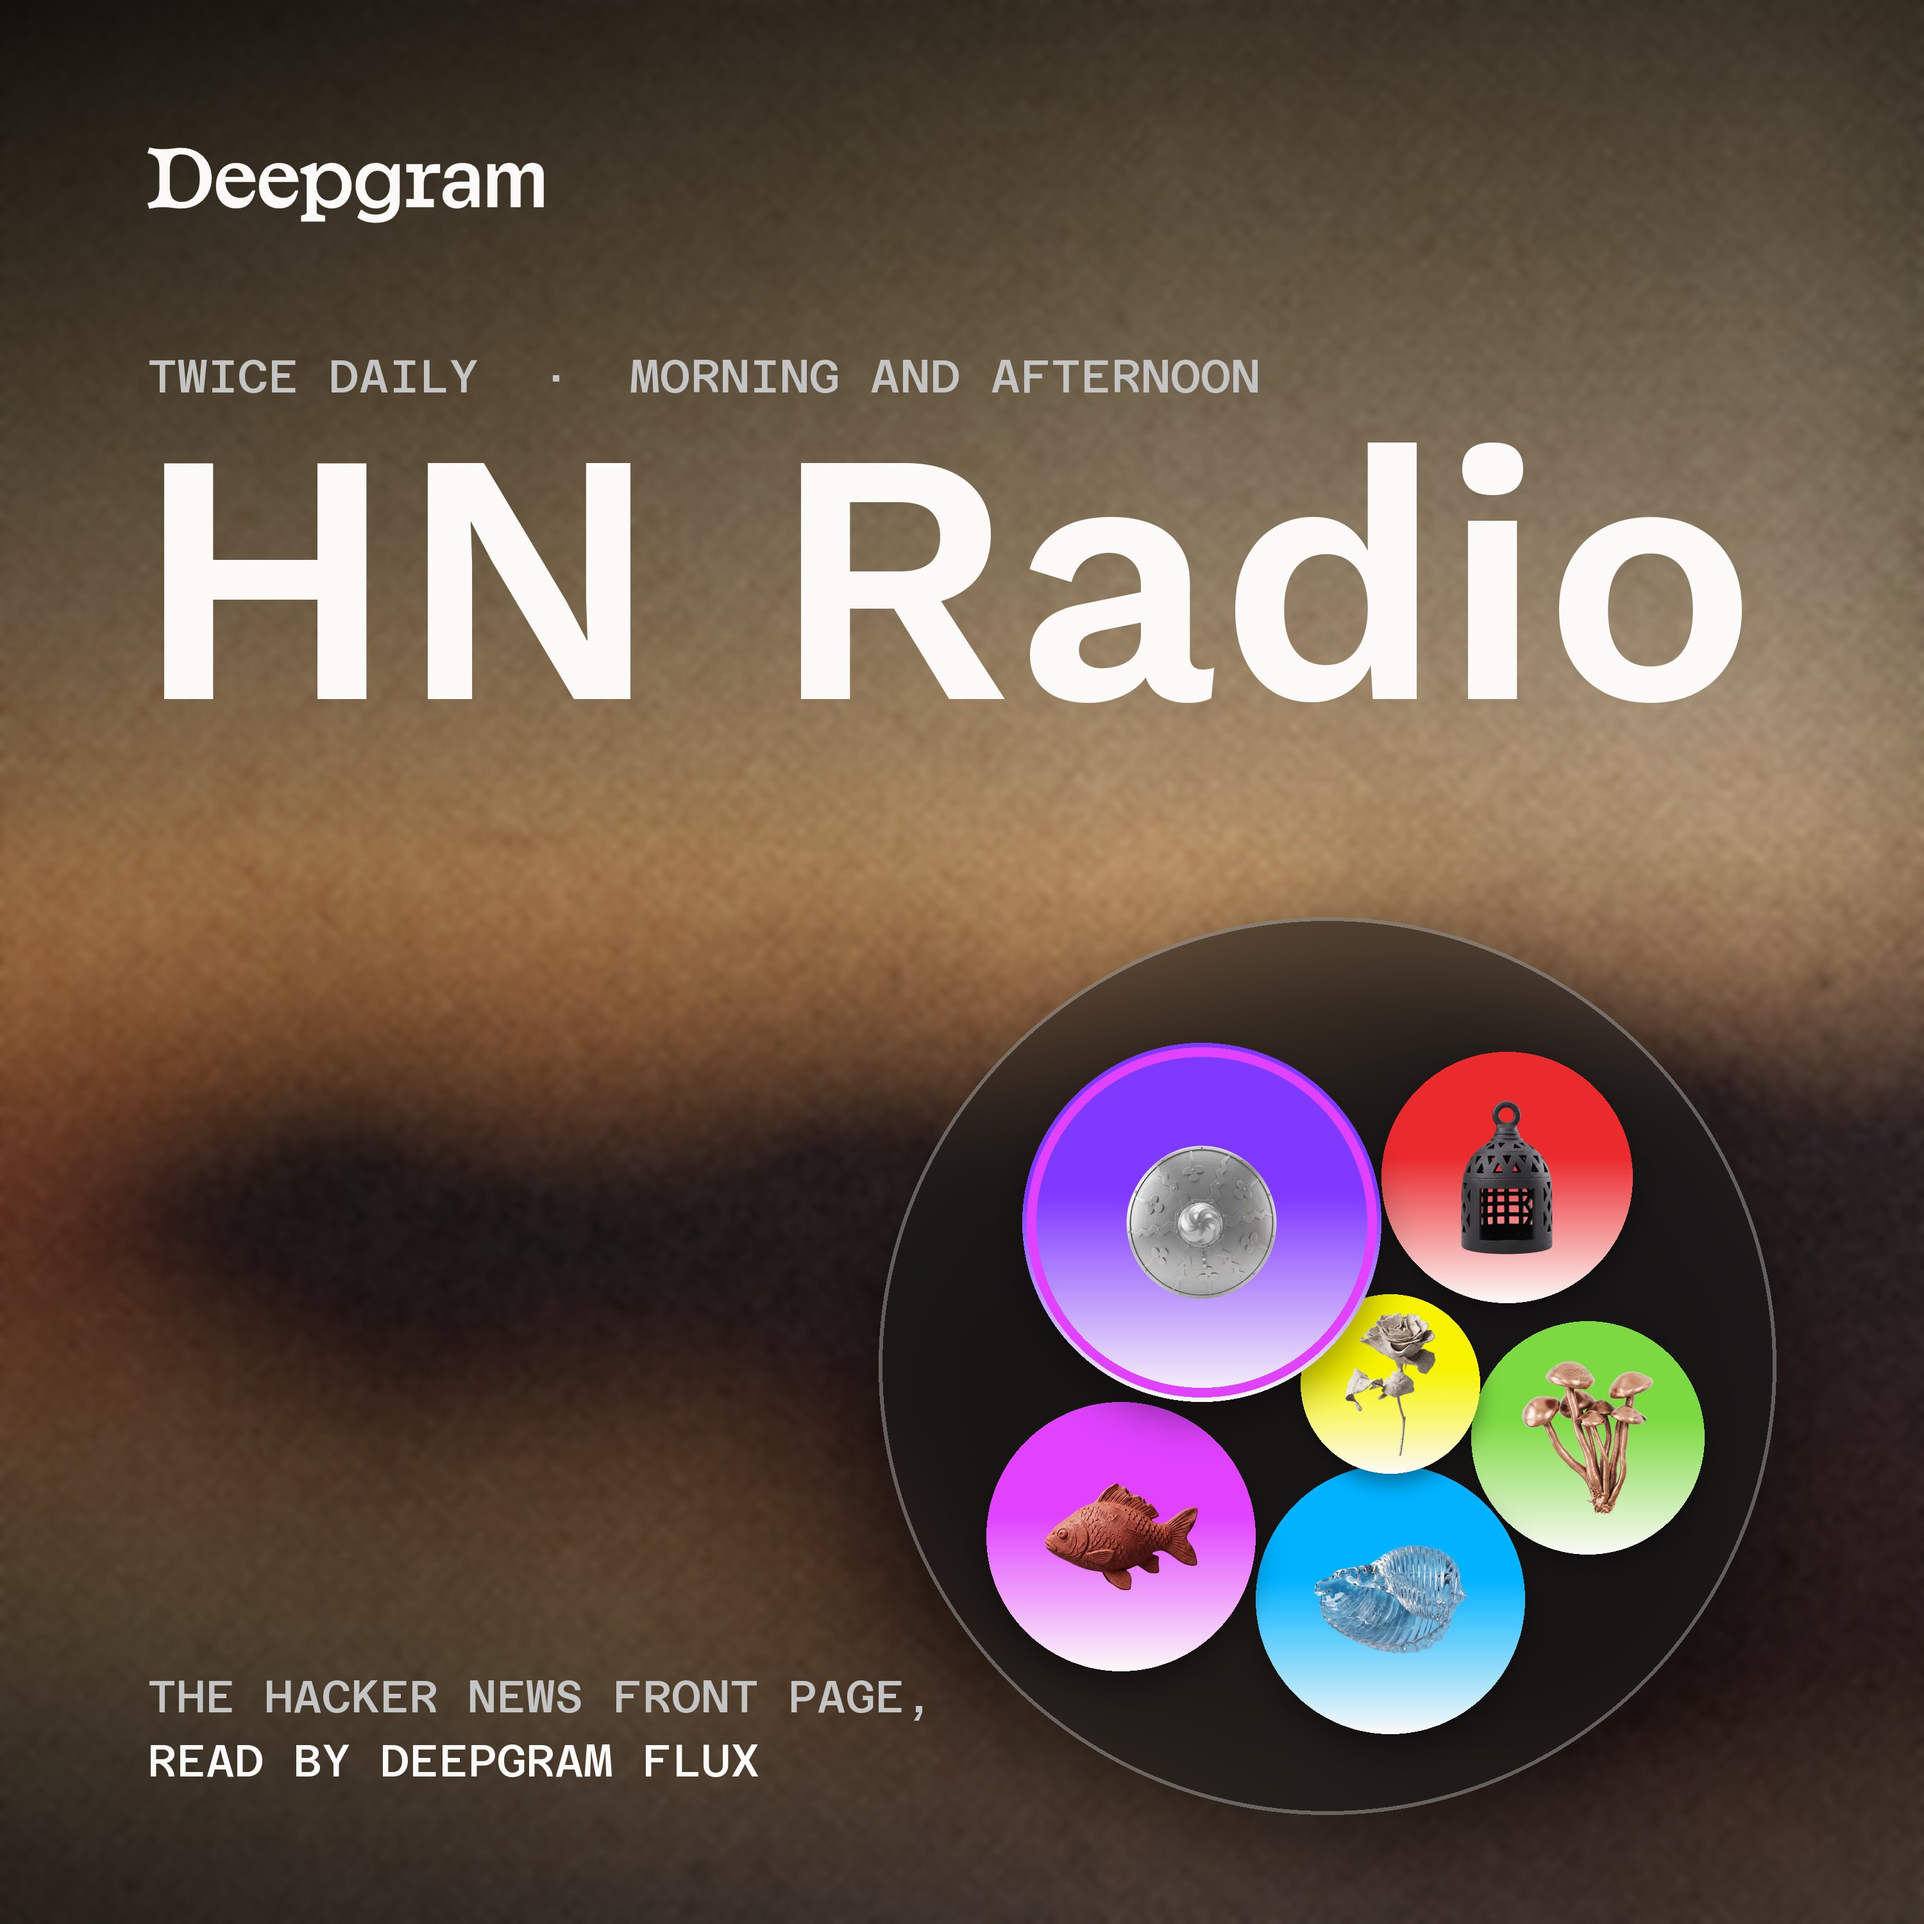
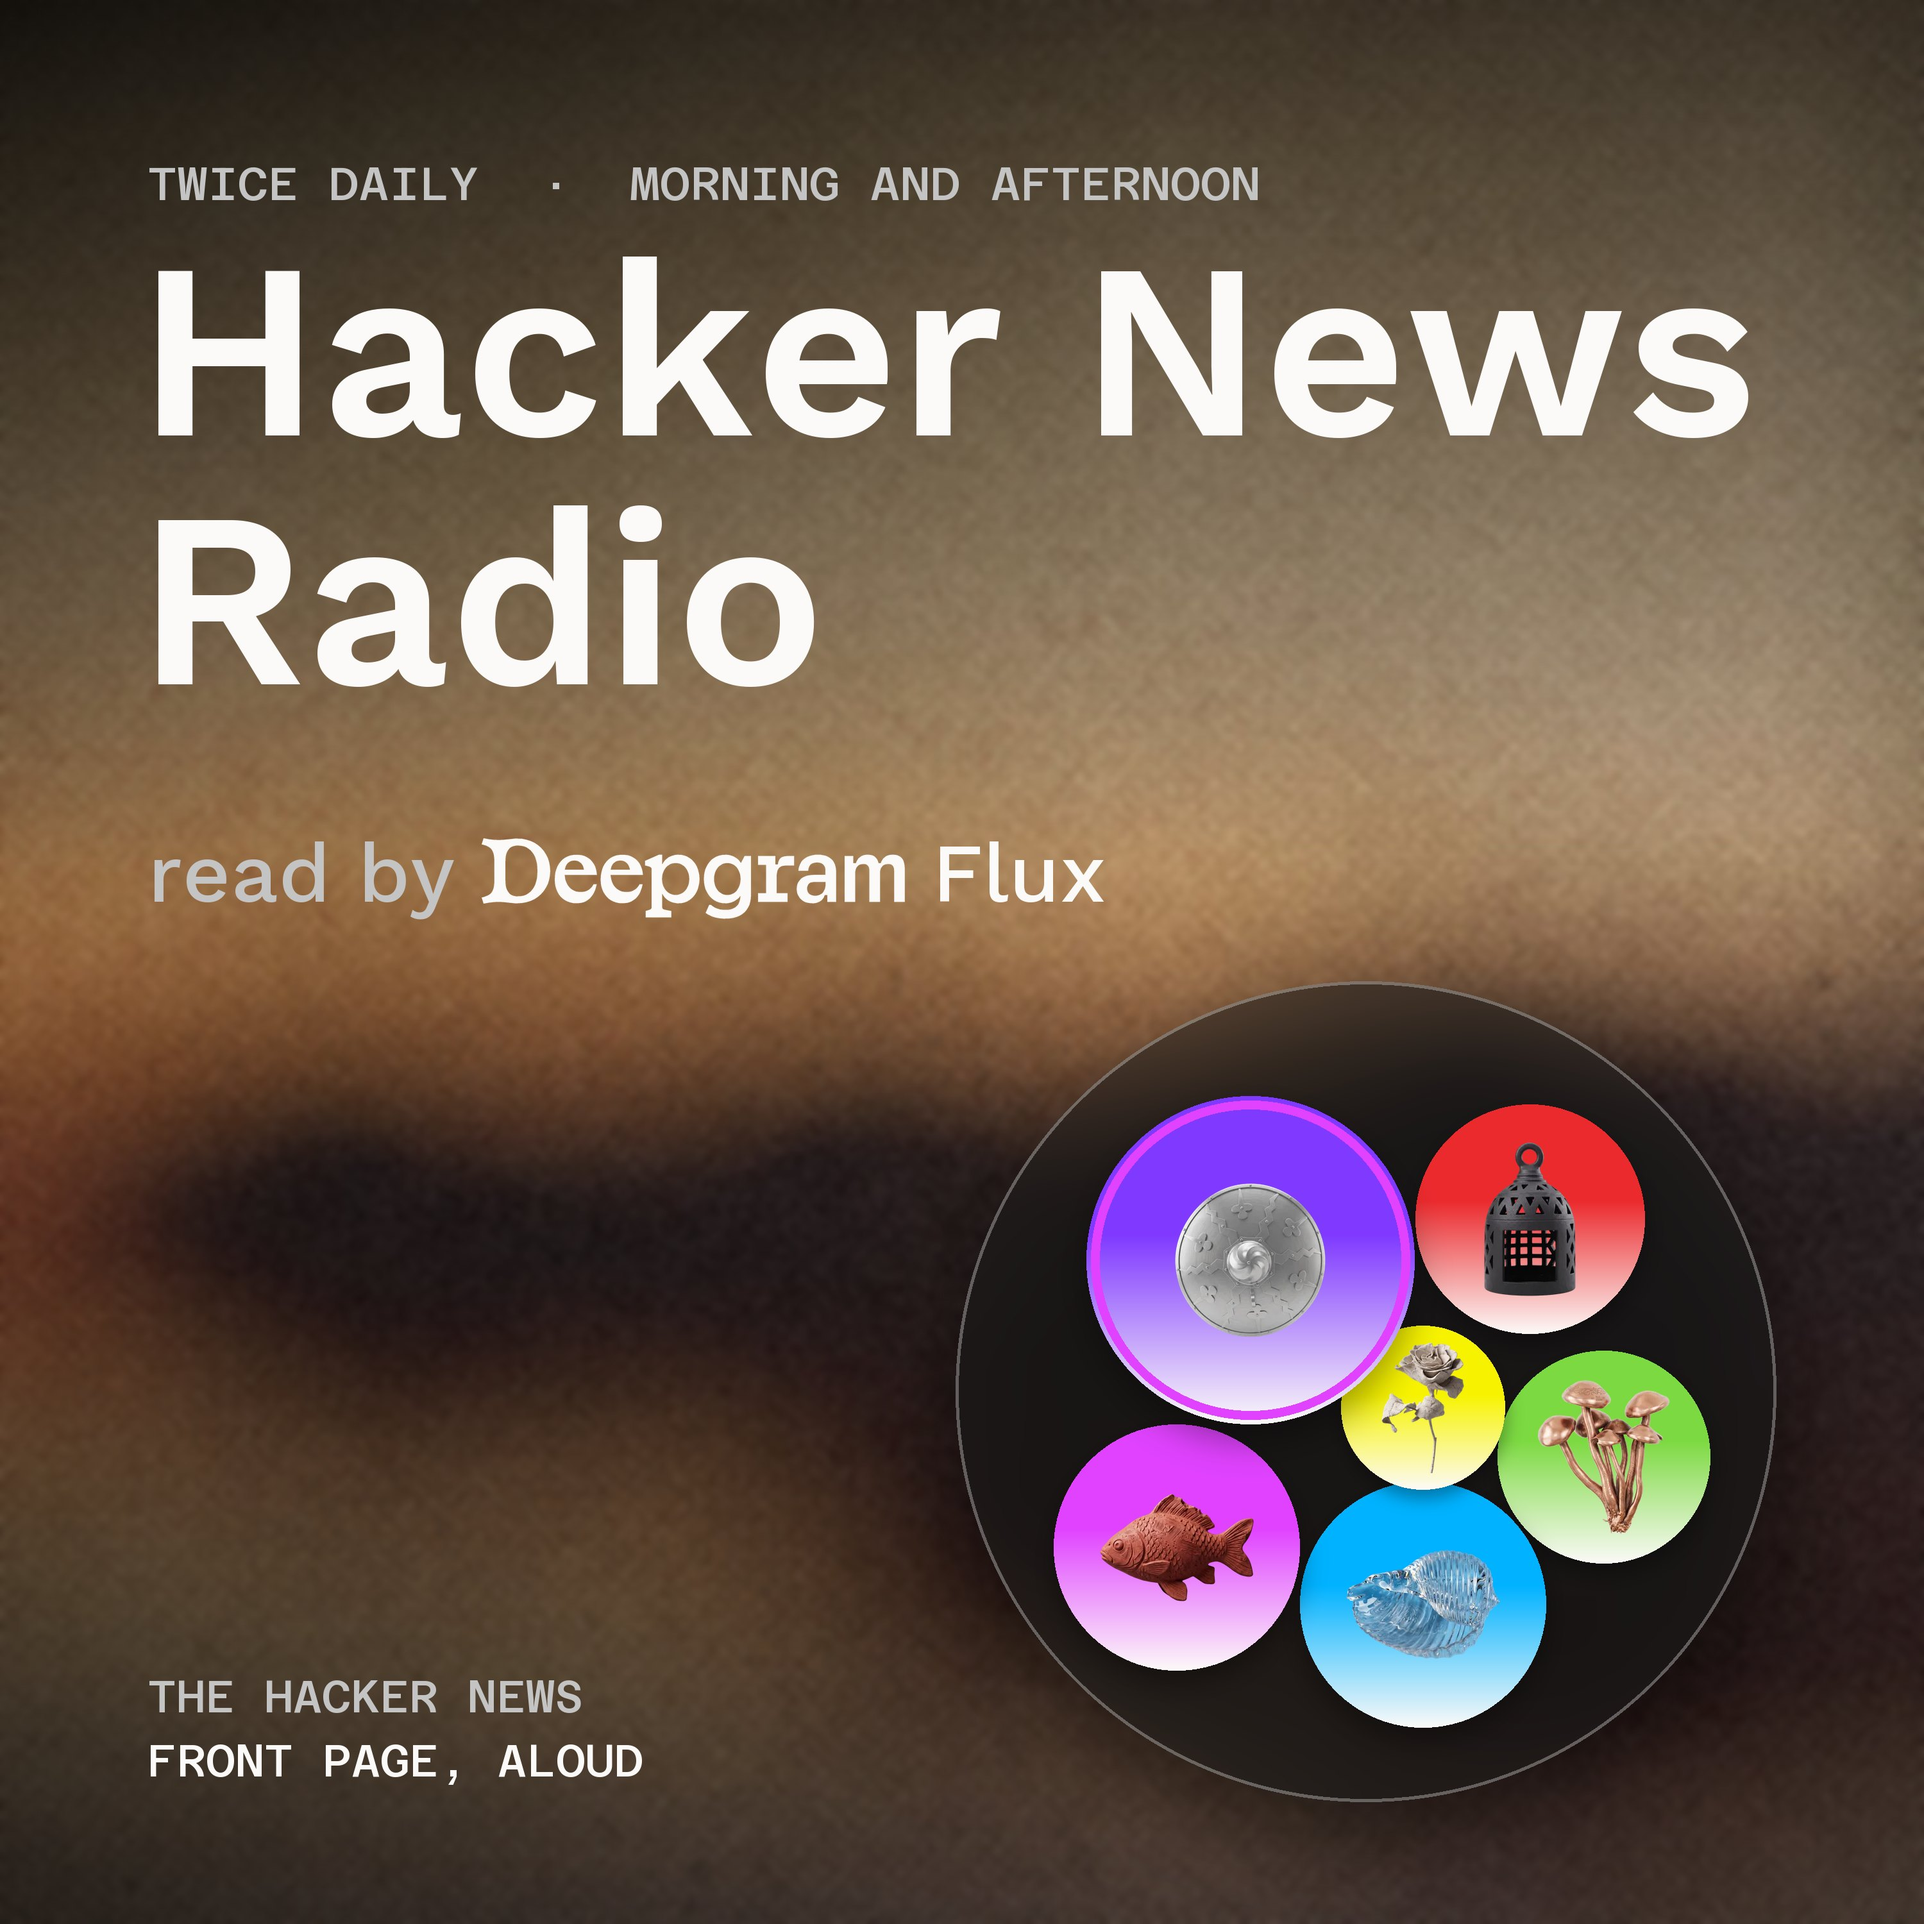
feat(feed): rename the show to Hacker News Radio, read by Deepgram Flux
Claude-Session: https://claude.ai/code/session_01Q2bQEEqMRgxPW6cQZEVLRq

diff --git a/hn_radio/art.py b/hn_radio/art.py
@@ -404,7 +404,8 @@ def cluster(img, cx: float, cy: float, diameter: int, names: Sequence[str], max_
 # ---- the show cover ----------------------------------------------------------------------------
 
 def make_cover(out: Optional[Path] = None, max_kb: int = 560) -> Path:
-    """3000x3000: the logo alone, the show name, and the bench in one bubble, over felt.
+    """3000x3000: the show name, its "read by Deepgram Flux" subtitle with the wordmark, and the
+    bench in one bubble, over felt.
 
     It has to survive 55px in a subscription list, so it carries two words of type at size and one
     object; the description belongs in the feed. Saved as JPEG (config.COVER_FILE) and stepped
@@ -420,22 +421,36 @@ def make_cover(out: Optional[Path] = None, max_kb: int = 560) -> Path:
     d = ImageDraw.Draw(img)
     margin = 230
 
-    mark = logo(118)
-    if mark is not None:
-        img.alpha_composite(mark, (margin, 230))
-    else:
-        d.text((margin, 230), "Deepgram", font=font("sans", 120, 600), fill=OFF_WHITE, anchor="lt")
-
-    d.text((margin, 560), "TWICE DAILY  ·  MORNING AND AFTERNOON", font=font("mono", 72, 500),
+    d.text((margin, 260), "TWICE DAILY  ·  MORNING AND AFTERNOON", font=font("mono", 72, 500),
            fill=LIGHT_GRAY, anchor="lt")
-    big = fit("HN Radio", "sans", 600, 600, size - 2 * margin)
-    d.text((margin - big.size * 0.04, 690), "HN Radio", font=big, fill=OFF_WHITE, anchor="lt")
 
-    cluster(img, size - margin - 700, size - margin - 640, 1400, COVER_CAST, max_seats=6)
+    # The name on two lines, so each word stays big enough to read at 55px in a subscription list.
+    big = fit("Hacker News", "sans", 470, 600, size - 2 * margin)
+    for i, word in enumerate(("Hacker News", "Radio")):
+        d.text((margin - big.size * 0.04, 400 + i * big.size), word, font=big, fill=OFF_WHITE, anchor="lt")
 
-    d.text((margin, size - margin - 100), "THE HACKER NEWS FRONT PAGE,", font=font("mono", 70, 500),
+    # The subtitle, "read by Deepgram Flux", with Deepgram as the wordmark rather than typed out.
+    sub = font("sans", 130, 500)
+    base = 400 + 2 * big.size + 230
+    x = margin
+    d.text((x, base), "read by", font=sub, fill=LIGHT_GRAY, anchor="ls")
+    x += sub.getlength("read by ")
+    mark = logo(126)
+    if mark is not None:
+        # The wordmark's box runs from cap height to the bottom of the p and g; sit its baseline,
+        # about 78% of the way down, on the text's.
+        img.alpha_composite(mark, (int(x), int(base - mark.height * 0.78)))
+        x += mark.width + sub.getlength(" ")
+    else:
+        d.text((x, base), "Deepgram", font=sub, fill=OFF_WHITE, anchor="ls")
+        x += sub.getlength("Deepgram ")
+    d.text((x, base), "Flux", font=sub, fill=OFF_WHITE, anchor="ls")
+
+    cluster(img, size - margin - 640, size - margin - 600, 1280, COVER_CAST, max_seats=6)
+
+    d.text((margin, size - margin - 100), "THE HACKER NEWS", font=font("mono", 70, 500),
            fill=LIGHT_GRAY, anchor="ls")
-    d.text((margin, size - margin), "READ BY DEEPGRAM FLUX", font=font("mono", 70, 500),
+    d.text((margin, size - margin), "FRONT PAGE, ALOUD", font=font("mono", 70, 500),
            fill=OFF_WHITE, anchor="ls")
 
     out.parent.mkdir(parents=True, exist_ok=True)

diff --git a/hn_radio/config.py b/hn_radio/config.py
@@ -257,7 +257,12 @@ def public_app_url() -> str:
     if _read_env_var("HN_RADIO_BASE_URL"):
         return site_app_url()
     return DEFAULT_PUBLIC_APP_URL
-SITE_TITLE = "HN Radio"
+# The show's name, and the subtitle that goes with it. The feed and link unfurls carry them as one
+# line (text has no second line); the cover and the home page set the subtitle under the name,
+# with "Deepgram" drawn as the wordmark.
+SITE_NAME = "Hacker News Radio"
+SITE_SUBTITLE = "read by Deepgram Flux"
+SITE_TITLE = f"{SITE_NAME}, {SITE_SUBTITLE}"
 SITE_DESCRIPTION = "The Hacker News front page, read to you morning and afternoon. Made with Deepgram Flux TTS."
 # Podcast channel metadata (placeholder for the demo)
 SITE_AUTHOR = "Deepgram DevRel"
